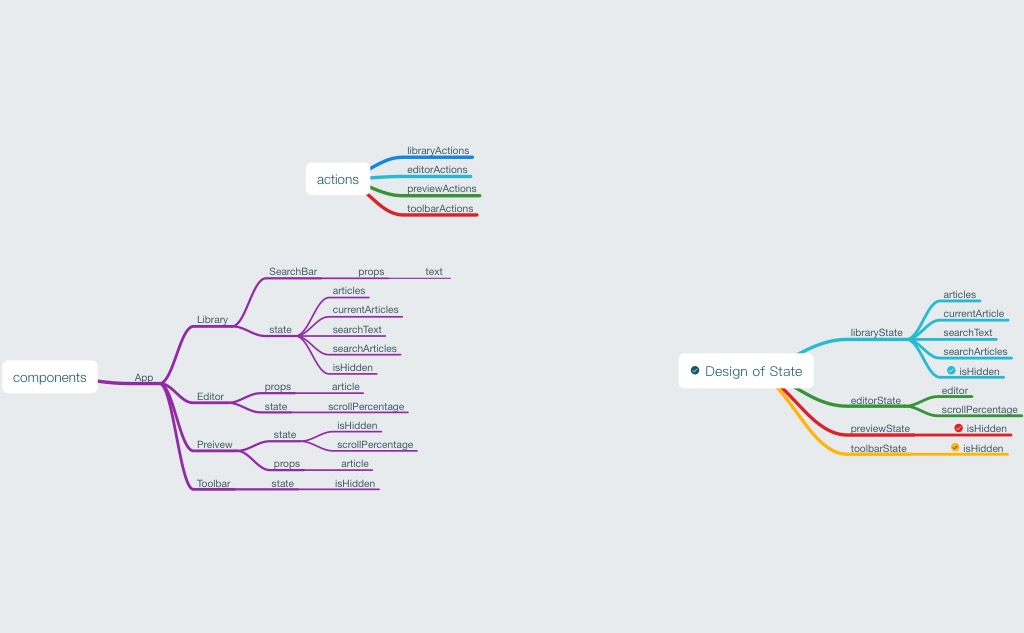
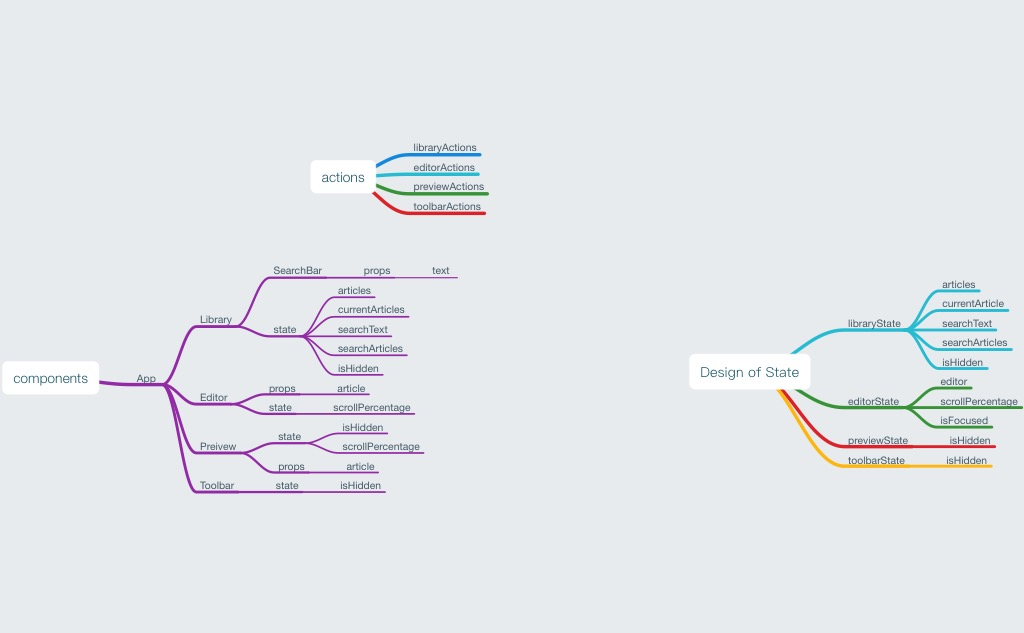
Fix: When I input in searchbar, the textarea get focus automaticlly
- add isFocused to editorState
- add setEditorFocusedAction

diff --git a/src/presentationals/Editor/index.jsx b/src/presentationals/Editor/index.jsx
@@ -7,6 +7,7 @@ class Editor extends Component {
   static propTypes = {
     className: PropTypes.string,
     article: ImmutablePropTypes.map,
+    isFocused: PropTypes.bool,
     onChangeText: PropTypes.func,
     onScroll: PropTypes.func,
     getEditor: PropTypes.func,
@@ -18,17 +19,20 @@ class Editor extends Component {
   }
 
   componentDidUpdate() {
-    const textarea = this.refs.textarea
-    const { article, onFinishCmd } = this.props
-    const { cmd } = article.toJS()
-    if (cmd) {
-      const { selectionStart, selectionRange } = cmd
-      onFinishCmd()
+    const { isFocused } = this.props
+    if (isFocused) {
+      const textarea = this.refs.textarea
+      const { article, onFinishCmd } = this.props
+      const { cmd } = article.toJS()
+      if (cmd) {
+        const { selectionStart, selectionRange } = cmd
+        onFinishCmd()
 
-      textarea.setSelectionRange(selectionStart + selectionRange[0],
-        selectionStart + selectionRange[1])
+        textarea.setSelectionRange(selectionStart + selectionRange[0],
+          selectionStart + selectionRange[1])
+      }
+      textarea.focus()
     }
-    textarea.focus()
   }
 
   onScroll = event => {
@@ -41,7 +45,8 @@ class Editor extends Component {
     const props = { ...this.props }
     delete props.onScroll
     delete props.onFinishCmd
-    const { className, article, onChangeText, ...other } = props
+    delete props.isFocused
+    const { className, article, onChangeText, onFocus, onBlur, ...other } = props
 
     return (
       <textarea
@@ -53,6 +58,8 @@ class Editor extends Component {
         autoFocus
         onChange={e => onChangeText(e.target.value)}
         onScroll={this.onScroll}
+        onFocus={onFocus}
+        onBlur={onBlur}
       />
     )
   }

diff --git a/src/containers/EditorContainer.jsx b/src/containers/EditorContainer.jsx
@@ -10,13 +10,14 @@ import {
   editArticleAction,
   finishCmdAction,
 } from '../actions/libraryActions'
-import { scrollEditorAction } from '../actions/editorActions'
+import { scrollEditorAction, setEditorFocusedAction } from '../actions/editorActions'
 
 import { newArticle } from '../utils/article'
 
 class EditorContainer extends Component {
   static propTypes = {
     dispatch: PropTypes.func,
+    editorState: ImmutablePropTypes.map,
     libraryState: ImmutablePropTypes.map,
   }
 
@@ -36,19 +37,27 @@ class EditorContainer extends Component {
 
   onScroll = percentage => this.props.dispatch(scrollEditorAction(percentage))
 
+  onFocus = () => this.props.dispatch(setEditorFocusedAction(true))
+
+  onBlur = () => this.props.dispatch(setEditorFocusedAction(false))
+
   render() {
     const props = { ...this.props }
     delete props.dispatch
-    const { libraryState, ...other } = props
+    const { editorState, libraryState, ...other } = props
+    const { isFocused } = editorState.toJS()
     const currentArticle = libraryState.get('currentArticle')
 
     return (
       <Editor
         {...other}
         article={currentArticle}
+        isFocused={isFocused}
         onChangeText={this.onChangeText}
         onScroll={this.onScroll}
         onFinishCmd={this.onFinishCmd}
+        onFocus={this.onFocus}
+        onBlur={this.onBlur}
       />
     )
   }
@@ -56,4 +65,5 @@ class EditorContainer extends Component {
 
 export default connect((state) => ({
   libraryState: state.get('libraryState'),
+  editorState: state.get('editorState'),
 }))(EditorContainer)

diff --git a/src/containers/LibraryContainer.jsx b/src/containers/LibraryContainer.jsx
@@ -8,6 +8,7 @@ import {
   selectArticleAction,
   searchArticlesAction,
 } from '../actions/libraryActions'
+import { setEditorFocusedAction } from '../actions/editorActions'
 
 import Library from '../presentationals/Library'
 
@@ -27,7 +28,8 @@ class LibraryContainer extends Component {
     const { dispatch } = this.props
     const article = newArticle()
     dispatch(addArticleAction(article))
-    return dispatch(selectArticleAction(article.id))
+    dispatch(selectArticleAction(article.id))
+    dispatch(setEditorFocusedAction(true))
   }
 
   onArticleSelect = articleID => this.props.dispatch(selectArticleAction(articleID))

diff --git a/src/reducers/editorReducer.js b/src/reducers/editorReducer.js
@@ -1,13 +1,16 @@
 import { handleActions } from 'redux-actions'
 import { fromJS } from 'immutable'
 
-import { SCROLL_EDITOR } from '../constants/actionTypes'
+import { SCROLL_EDITOR, SET_EDITOR_FOCUSED } from '../constants/actionTypes'
 
 const initialState = fromJS({
   editor: null,
   scrollPercentage: 0,
+  isFocused: true,
 })
 
 export default handleActions({
   [SCROLL_EDITOR]: (state, { payload }) => state.set('scrollPercentage', payload),
+
+  [SET_EDITOR_FOCUSED]: (state, { payload }) => state.set('isFocused', payload),
 }, initialState)

diff --git a/src/containers/ToolbarContainer.jsx b/src/containers/ToolbarContainer.jsx
@@ -12,6 +12,7 @@ import {
   addCmdAction,
   toggleLibraryAction,
 } from '../actions/libraryActions'
+import { setEditorFocusedAction } from '../actions/editorActions'
 
 import { newArticle } from '../utils/article'
 
@@ -33,6 +34,7 @@ class ToolbarContainer extends Component {
       const article = newArticle()
       dispatch(addArticleAction(article))
       dispatch(selectArticleAction(article.id))
+      dispatch(setEditorFocusedAction(true))
     }
     dispatch(addCmdAction(newCmd))
   }

diff --git a/src/actions/editorActions.js b/src/actions/editorActions.js
@@ -1,4 +1,6 @@
 import { createAction } from 'redux-actions'
-import { SCROLL_EDITOR } from '../constants/actionTypes'
+import { SCROLL_EDITOR, SET_EDITOR_FOCUSED } from '../constants/actionTypes'
 
 export const scrollEditorAction = createAction(SCROLL_EDITOR)
+
+export const setEditorFocusedAction = createAction(SET_EDITOR_FOCUSED)

diff --git a/src/constants/actionTypes.js b/src/constants/actionTypes.js
@@ -25,6 +25,8 @@ export const CHANGE_EDITOR_VALUE = 'CHANGE_EDITOR_VALUE'
 
 export const SCROLL_EDITOR = 'SCROLL_EDITOR'
 
+export const SET_EDITOR_FOCUSED = 'SET_EDITOR_FOCUSED'
+
 
 // Preview =========================================================================================
 
